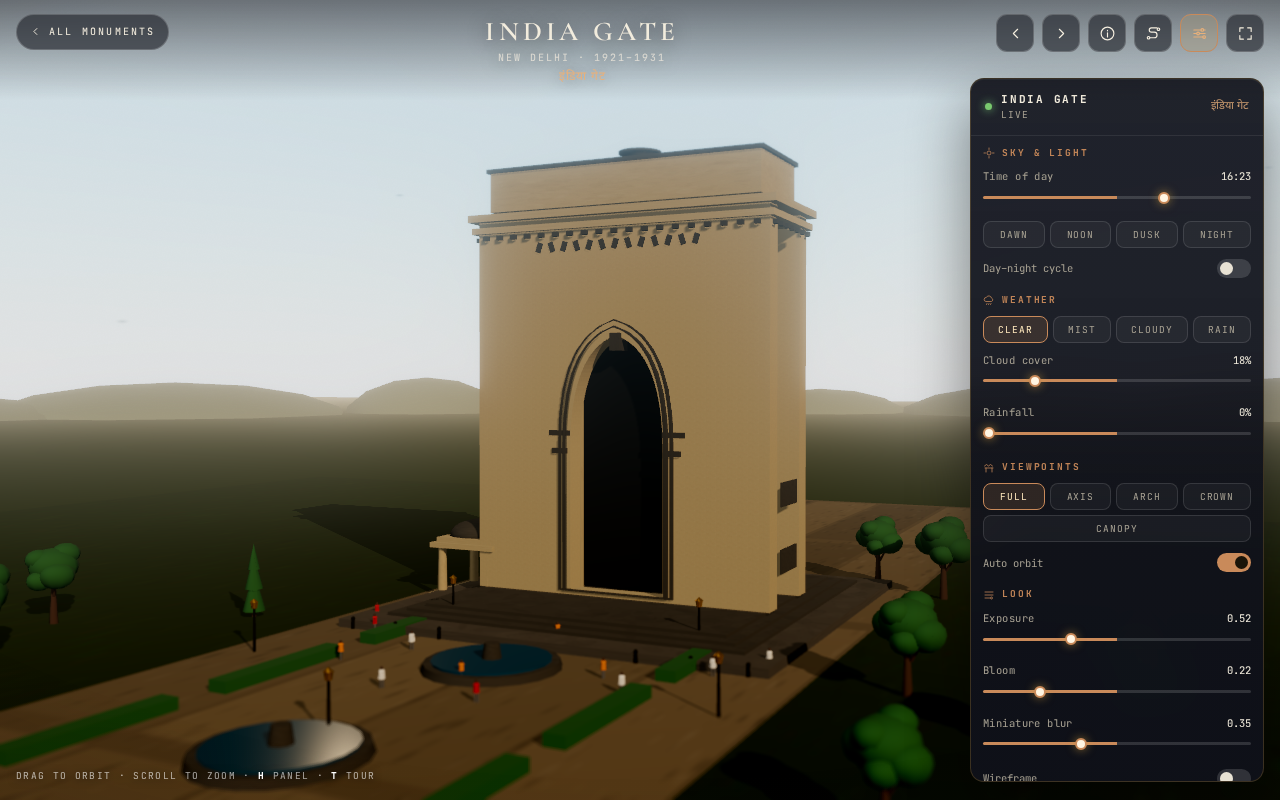
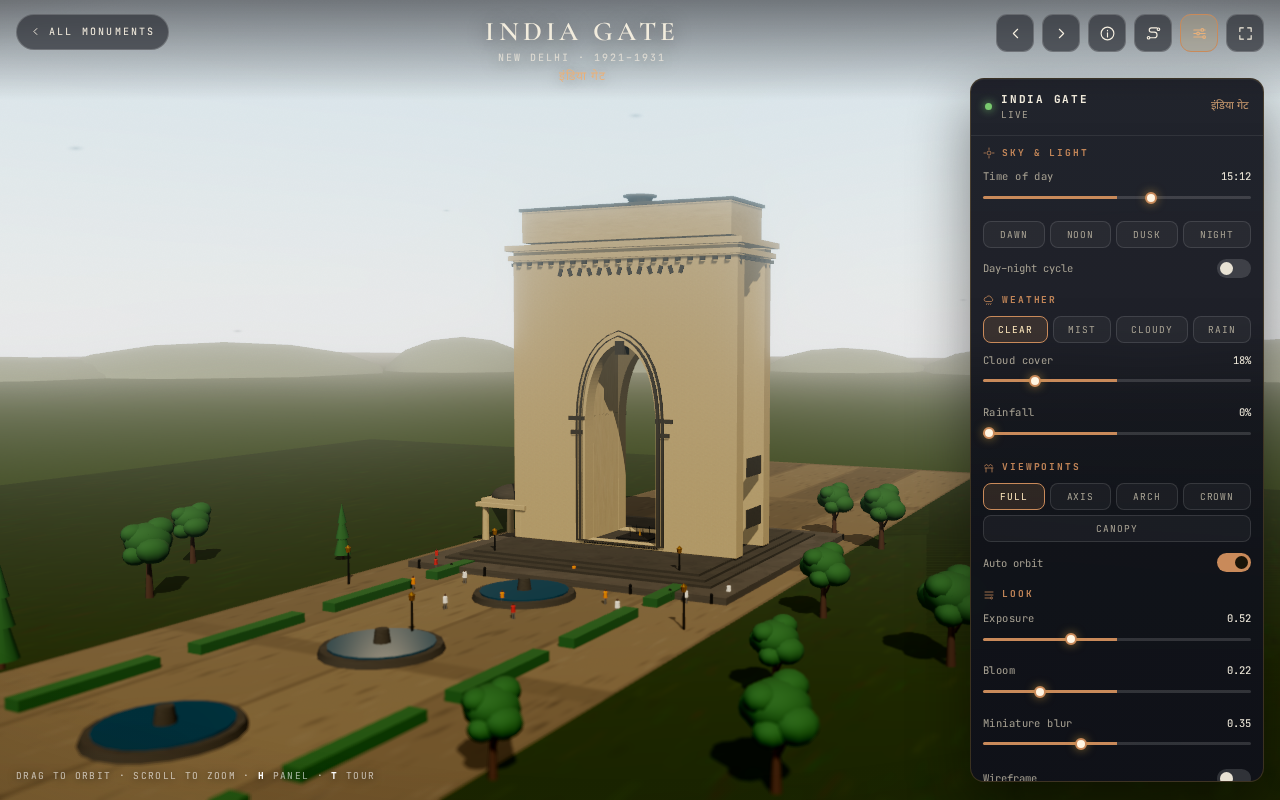
Depth pass 2: India Gate passage, CSMT tower, Rani ki Vav carving
- India Gate: the barrel that filled the arch is gone, so the passage is open
  and you see through to the far side
- CSMT: taller slimmer clock tower with lancet openings, a stepped gable over
  the entrance, corner turrets with onion domes, an iron-columned platform
  canopy; clock faces moved onto the tower face; gap between the clock stage
  and the stone roof closed; camera pulled back
- Rani ki Vav: carved brackets under every ledge, a row of figures along the
  outer wall of each terrace, merlons along the rim

diff --git a/assets/js/monuments/csmt-mumbai.js b/assets/js/monuments/csmt-mumbai.js
@@ -10,10 +10,10 @@ export default {
   bounds: 70,
   minDist: 16,
   maxDist: 260,
-  home: { pos: [40, 20, 74], target: [0, 18, 0], fov: 40 },
+  home: { pos: [58, 27, 98], target: [0, 20, 0], fov: 40 },
   ground: { texture: 'paving', size: 2400, color: 0xa89c86 },
   views: [
-    { name: 'Full', pos: [40, 20, 74], target: [0, 18, 0] },
+    { name: 'Full', pos: [58, 27, 98], target: [0, 20, 0] },
     { name: 'Facade', pos: [4, 14, 52], target: [0, 16, 0] },
     { name: 'Dome', pos: [14, 34, 40], target: [0, 30, 0] },
     { name: 'Clock tower', pos: [-24, 28, 44], target: [-18, 32, 0] },
@@ -23,7 +23,7 @@ export default {
     {
       title: 'Victoria Terminus', deva: 'छत्रपति शिवाजी महाराज टर्मिनस',
       text: 'The terminus was built in Bombay between 1878 and 1888 to a design by Frederick William Stevens, as the headquarters of the Great Indian Peninsula Railway. It was named for Queen Victoria in her jubilee year.',
-      pos: [40, 20, 74], target: [0, 18, 0], time: 16.2
+      pos: [58, 27, 98], target: [0, 20, 0], time: 16.2
     },
     {
       title: 'Gothic and Indian', deva: 'गॉथिक',
@@ -48,7 +48,7 @@ export default {
     {
       title: 'A Working Monument', deva: 'रात्रि',
       text: 'In 2004 it became a UNESCO World Heritage Site — the first working railway station to be inscribed — and it is floodlit every evening.',
-      pos: [34, 16, 66], target: [0, 18, 0], time: 21.2
+      pos: [52, 24, 90], target: [0, 20, 0], time: 21.2
     }
   ],
 
@@ -82,6 +82,22 @@ export default {
         add(trim, cone(0.62, 1.6, 8), x + 4.2, 18.8, 6.2);
       }
     }
+    // the central gable over the entrance
+    add(stone, box(7.4, 1.1, 1.0), 0, 14.4, 6.3);
+    add(trim, box(7.8, 0.28, 1.2), 0, 15.0, 6.3);
+    add(stone, box(5.0, 1.1, 1.0), 0, 15.6, 6.3);
+    add(trim, box(5.4, 0.26, 1.2), 0, 16.2, 6.3);
+    add(stone, box(2.6, 1.1, 1.0), 0, 16.8, 6.3);
+    add(trim, box(3.0, 0.24, 1.2), 0, 17.4, 6.3);
+    add('dark', cyl(0.8, 0.8, 0.2, 12), 0, 13.5, 6.85, { rx: Math.PI / 2 });
+    // corner turrets with small domes
+    [-1, 1].forEach((s2) => {
+      add(stone, cyl(1.5, 1.8, 19, 8), s2 * (W / 2 - 1.4), 10.6, 5.2);
+      add(trim, cyl(1.9, 1.9, 0.4, 8), s2 * (W / 2 - 1.4), 20.2, 5.2);
+      add('marble', onion(1.7, 2.6, 16), s2 * (W / 2 - 1.4), 20.4, 5.2);
+      add('gold', sph(0.18, 8), s2 * (W / 2 - 1.4), 23.2, 5.2);
+    });
+
     // horizontal string courses
     [5.4, 9.2].forEach((y) => add(trim, box(W + 0.8, 0.3, D + 0.8), 0, y, -2));
 
@@ -108,30 +124,38 @@ export default {
 
     /* ---- the clock tower ---------------------------------------------------- */
     (function clockTower(cx, cz) {
-      block(stone, 9, 24, 9, cx, 1.2, cz);
-      [6, 12, 18].forEach((y) => add(trim, box(9.6, 0.4, 9.6), cx, y, cz));
-      // the clock stage
-      add(trim, box(10.2, 6.4, 10.2), cx, 25.2, cz);
-      [[0, 5.2, 0], [0, -5.2, Math.PI], [5.2, 0, Math.PI / 2], [-5.2, 0, -Math.PI / 2]].forEach(([dx, dz, ry]) => {
-        add('plasterWhite', cyl(2.2, 2.2, 0.18, 22), cx + dx, 28.4, cz + dz, { rx: Math.PI / 2, ry });
-        add('grey', cyl(2.35, 2.35, 0.1, 22), cx + dx * 0.995, 28.4, cz + dz * 0.995, { rx: Math.PI / 2, ry });
-        // hands, standing proud of the face
-        add('black', box(0.14, 1.35, 0.12), cx + dx * 1.03, 28.95, cz + dz * 1.03, { ry });
-        add('black', box(1.0, 0.14, 0.12), cx + dx * 1.03 + (ry === 0 ? 0.5 : 0), 28.45, cz + dz * 1.03, { ry });
+      block(stone, 8, 30, 8, cx, 1.2, cz);
+      [7, 14, 21, 27].forEach((y) => add(trim, box(8.6, 0.4, 8.6), cx, y, cz));
+      // lancet openings up the shaft
+      [4.6, 11.2, 17.6, 23.4].forEach((y) => {
+        add('dark', arch(1.6, 3.2, 0.18), cx, y, cz + 4.05);
+        add(trim, archFrame(2.0, 3.5, 0.16, 0.2), cx, y, cz + 4.1);
+        add('dark', arch(1.6, 3.2, 0.18), cx, y, cz - 4.05, { ry: Math.PI });
       });
-      add(trim, box(11, 0.5, 11), cx, 31.6, cz);
+      // the clock stage
+      add(trim, box(9.4, 6.4, 9.4), cx, 31.2, cz);
+      [[0, 4.75, 0], [0, -4.75, Math.PI], [4.75, 0, Math.PI / 2], [-4.75, 0, -Math.PI / 2]].forEach(([dx, dz, ry]) => {
+        add('plasterWhite', cyl(2.2, 2.2, 0.18, 22), cx + dx, 40.4, cz + dz, { rx: Math.PI / 2, ry });
+        add('grey', cyl(2.35, 2.35, 0.1, 22), cx + dx * 0.995, 40.4, cz + dz * 0.995, { rx: Math.PI / 2, ry });
+        // hands, standing proud of the face
+        add('black', box(0.14, 1.35, 0.12), cx + dx * 1.03, 34.95, cz + dz * 1.03, { ry });
+        add('black', box(1.0, 0.14, 0.12), cx + dx * 1.03 + (ry === 0 ? 0.5 : 0), 34.45, cz + dz * 1.03, { ry });
+      });
+      add(stone, box(8.6, 4.2, 8.6), cx, 36.5, cz);
+      add(trim, box(9.0, 0.4, 9.0), cx, 38.4, cz);
+      add(trim, box(10.2, 0.5, 10.2), cx, 37.6, cz);
       // a stepped stone roof, then a small lantern and finial
-      add(stone, box(8.4, 1.6, 8.4), cx, 32.7, cz);
-      add(trim, box(8.8, 0.3, 8.8), cx, 33.6, cz);
-      add(stone, box(6.6, 1.5, 6.6), cx, 34.4, cz);
-      add(trim, box(7.0, 0.28, 7.0), cx, 35.3, cz);
-      add(stone, box(4.8, 1.4, 4.8), cx, 36.1, cz);
-      add(trim, box(5.2, 0.26, 5.2), cx, 36.9, cz);
-      add(stone, box(3.2, 1.3, 3.2), cx, 37.7, cz);
-      add(trim, cyl(2.4, 2.4, 0.3, 8), cx, 38.5, cz);
-      add('marble', onion(2.2, 3.0, 18), cx, 38.6, cz);
-      add('gold', sph(0.26, 8), cx, 41.7, cz);
-      add('bronze', cone(0.18, 1.1, 6), cx, 42.4, cz);
+      add(stone, box(8.4, 1.6, 8.4), cx, 38.7, cz);
+      add(trim, box(8.8, 0.3, 8.8), cx, 39.6, cz);
+      add(stone, box(6.6, 1.5, 6.6), cx, 40.4, cz);
+      add(trim, box(7.0, 0.28, 7.0), cx, 41.3, cz);
+      add(stone, box(4.8, 1.4, 4.8), cx, 42.1, cz);
+      add(trim, box(5.2, 0.26, 5.2), cx, 42.9, cz);
+      add(stone, box(3.2, 1.3, 3.2), cx, 43.7, cz);
+      add(trim, cyl(2.4, 2.4, 0.3, 8), cx, 44.5, cz);
+      add('marble', onion(2.2, 3.0, 18), cx, 44.6, cz);
+      add('gold', sph(0.26, 8), cx, 47.7, cz);
+      add('bronze', cone(0.18, 1.1, 6), cx, 48.4, cz);
     })(-22, 4);
 
     /* ---- platform sheds behind -------------------------------------------- */
@@ -140,6 +164,13 @@ export default {
       add('grey', box(56, 0.3, 0.6), 0, 12.6, -14 - i * 0.4);
     }
     add('dark', box(58, 7, 16), 0, 8.6, -14);
+    // a long canopy on iron columns over the platforms
+    for (let i = 0; i < 14; i++) {
+      add('grey', cyl(0.22, 0.28, 6.2, 6), -27 + i * 4.2, 9.6, -10.5);
+      add('grey', cyl(0.22, 0.28, 6.2, 6), -27 + i * 4.2, 9.6, -18.5);
+    }
+    add('grey', box(58, 0.5, 10), 0, 12.9, -14.5);
+    add('cream', box(58, 0.3, 10.4), 0, 13.2, -14.5);
 
     /* ---- forecourt: palms, people, lamps ---------------------------------- */
     const people = [[-14, 16], [10, 17], [-6, 14], [18, 15], [0, 20], [-20, 12], [22, 12], [-9, 22],

diff --git a/assets/js/monuments/rani-ki-vav.js b/assets/js/monuments/rani-ki-vav.js
@@ -65,6 +65,11 @@ export default {
     block('sandstoneBuff', 9, H, L + 16, -(W / 2 + 4.5), 0, 0);
     block('sandstoneBuff', 9, H, L + 16, (W / 2 + 4.5), 0, 0);
     block('sandstoneBuff', W + 18, H, 8, 0, 0, -(L / 2 + 4));
+    // merlons along the rim
+    for (let i = 0; i < 18; i++) {
+      const z = (i - 8.5) * 2.6;
+      [-1, 1].forEach((s2) => add('sandstoneRed', box(0.7, 0.75, 0.7), s2 * (W / 2 + 0.4), H + 1.1, z));
+    }
     // parapet around the rim
     [[-(W / 2 + 0.4), 0, Math.PI / 2, L + 2], [(W / 2 + 0.4), 0, Math.PI / 2, L + 2],
      [0, -(L / 2 + 0.4), 0, W + 2]].forEach(([x, z, ry, len]) => {
@@ -90,6 +95,25 @@ export default {
           add('dark', box(0.14, 1.3, 0.9), x - s * 1.32, y - 1.6, z);
           add('sandstoneBuff', box(0.22, 1.7, 0.55), x - s * 1.42, y - 1.6, z - 1.05);
           add('marble', box(0.16, 1.5, 0.5), x - s * 1.44, y - 1.6, z + 1.05);
+        }
+      });
+      // carved brackets under each ledge
+      [-1, 1].forEach((s2) => {
+        const x = s2 * (W / 2 - inset - 1.2);
+        const nb = Math.max(3, Math.round(len / 2.6));
+        for (let k = 0; k < nb; k++) {
+          const z = (k - (nb - 1) / 2) * 2.6;
+          add('sandstoneBuff', box(0.5, 0.7, 0.35), x - s2 * 1.1, y - 1.05, z, { rz: s2 * 0.4 });
+        }
+      });
+      // a row of small figures on the outer wall above the ledge
+      [-1, 1].forEach((s2) => {
+        const x = s2 * (W / 2 + 0.55);
+        const nf = Math.max(3, Math.round(len / 2.2));
+        for (let k = 0; k < nf; k++) {
+          const z = (k - (nf - 1) / 2) * 2.2;
+          add('marble', box(0.16, 1.1, 0.55), x, y + 0.5, z);
+          add('sandstoneBuff', sph(0.2, 6), x, y + 1.2, z);
         }
       });
       // the transverse steps at the far end

diff --git a/assets/js/monuments/india-gate.js b/assets/js/monuments/india-gate.js
@@ -83,9 +83,8 @@ export default {
     add('plaster', box(2.4, H, D - 4.0), -AX / 2 - 1.2, base + H / 2, 0);
     add('plaster', box(2.4, H, D - 4.0), AX / 2 + 1.2, base + H / 2, 0);
     // the barrel of the passage
-    add('dark', box(AX - 0.2, AY, D - 5.0), 0, base + SILL + AY / 2, 0);
     add('stone', box(AX + 1.6, 0.2, D - 1.0), 0, base + 0.1, 0);
-    add('plaster', box(AX - 0.6, 0.3, D - 5.2), 0, base + 0.25, -1.4);
+    add('stone', box(AX + 0.4, 0.22, D), 0, base + 0.2, 0);
     // mouldings at the springing
     [-1, 1].forEach((s) => {
       add('stone', box(2.2, 0.5, D + 0.4), s * (AX / 2 + 1.1), base + SILL + AY * 0.62, 0);
